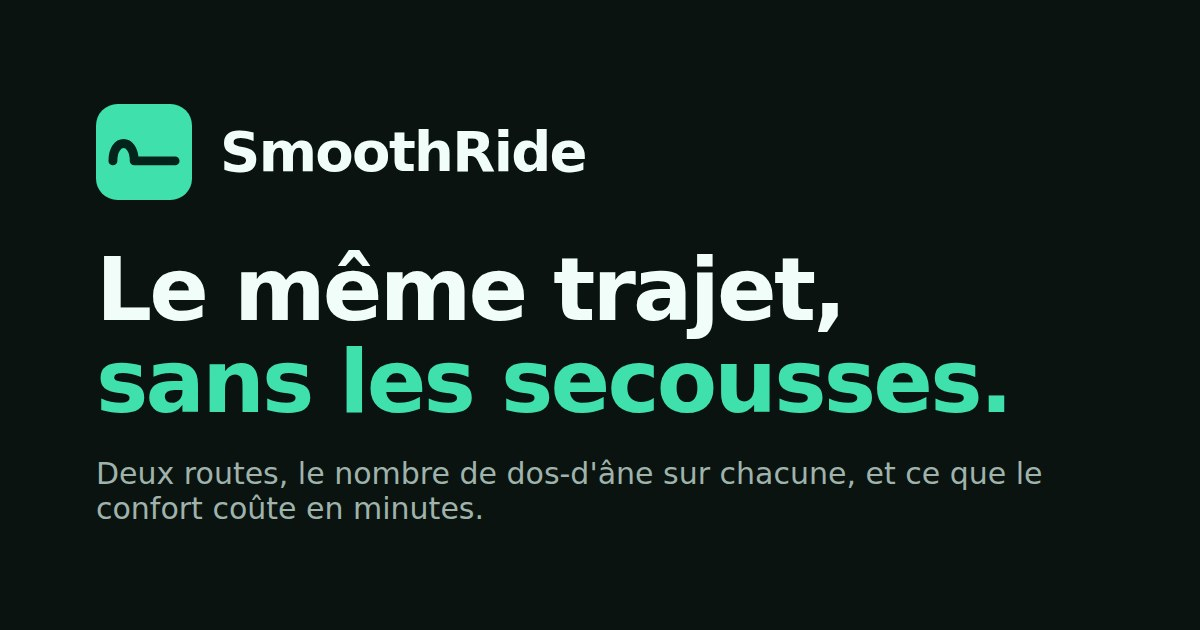
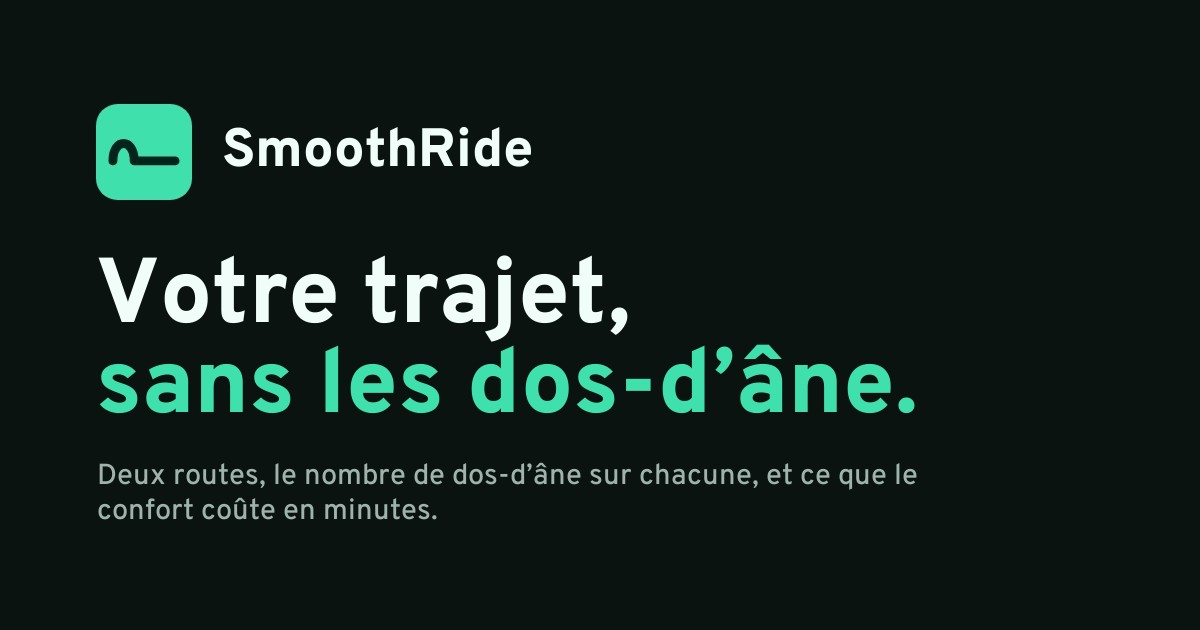
Plus aucune « secousse » : aperçu de lien et capture d'accueil en « Votre trajet, sans les dos-d'âne »
Demande du client du 23/11/2026 : le mot est banni de tous les supports.

Changed region(s): [[0.0617, 0.3921, 0.8633, 0.6635], [0.0617, 0.7238, 0.8633, 0.8444], [0.185, 0.181, 0.4933, 0.2714]]

diff --git a/src/config/site.ts b/src/config/site.ts
@@ -14,7 +14,7 @@ export const app = {
   nom: 'SmoothRide',
   /** La promesse, celle des fiches App Store et Google Play (choix de Noé
    *  du 27/10/2026 : « Votre trajet sans les dos-d'âne », plus parlant que
-   *  « Le même trajet, sans les secousses »). */
+   *  l'ancienne accroche ; le client a banni ce mot le 23/11/2026). */
   accroche: ['Votre trajet,', "sans les dos-d'âne."],
   description:
     "SmoothRide compare deux routes, compte les dos-d'âne sur chacune et te dit ce que le confort coûte en minutes. À toi de choisir.",
